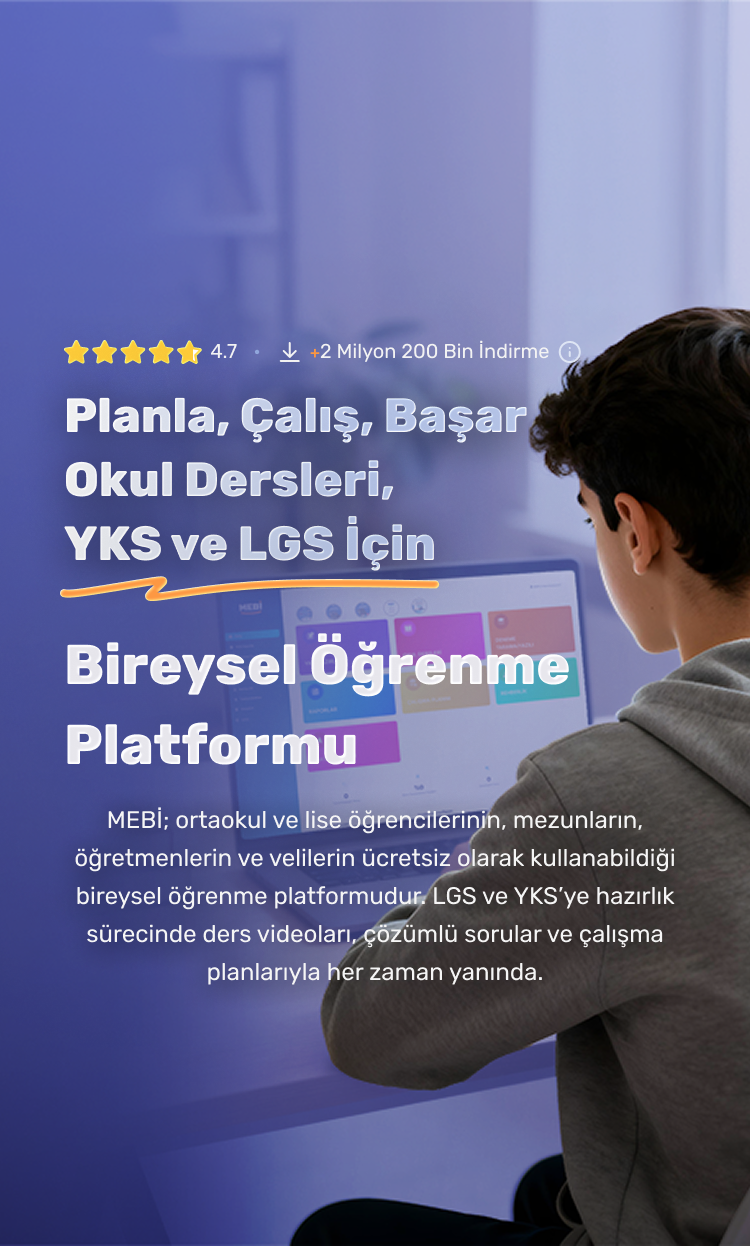
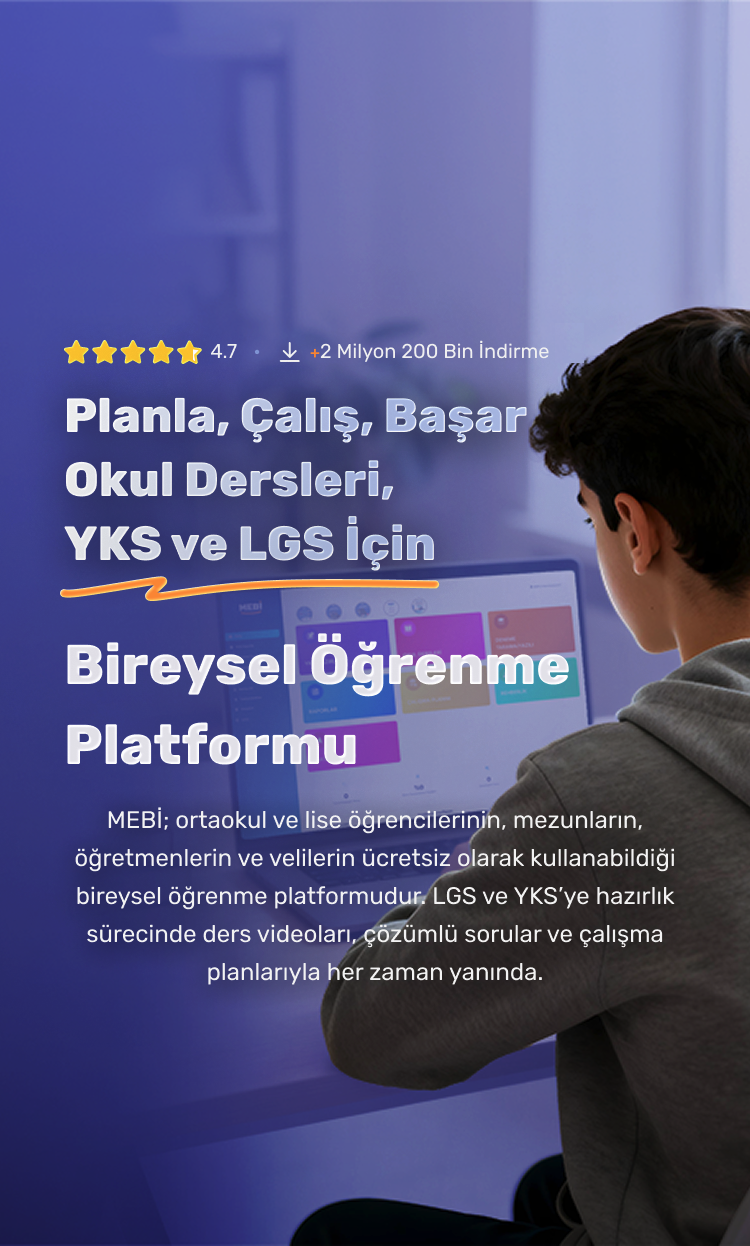
Update FAQ navigation styles for better responsiveness and adjust padding for improved layout

Changed region(s): [[0.5213, 0.488, 0.644, 0.549], [0.4293, 0.5795, 0.552, 0.6404], [0.736, 0.2745, 0.7667, 0.305]]

diff --git a/landing-v2/global.css b/landing-v2/global.css
@@ -1873,8 +1873,12 @@ section {
   width: 100%;
   overflow-x: scroll;
   -webkit-overflow-scrolling: touch;
-  padding-left: 210px;
-  padding-right: 30px;
+}
+
+@media (max-width: 566px) {
+  .faq-nav {
+    justify-content: flex-start;
+  }
 }
 
 .faq-nav::-webkit-scrollbar {
